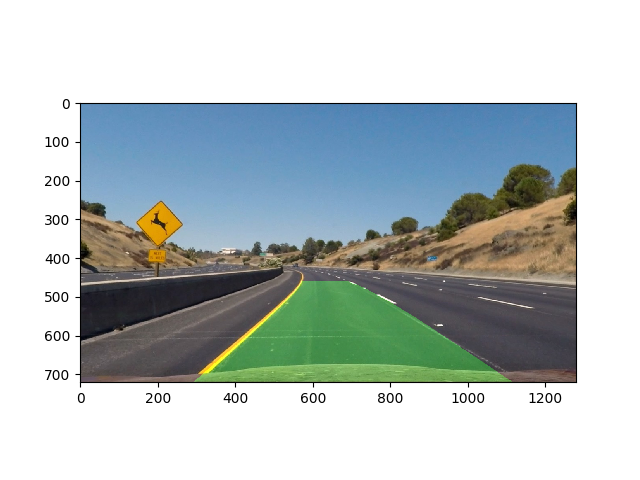
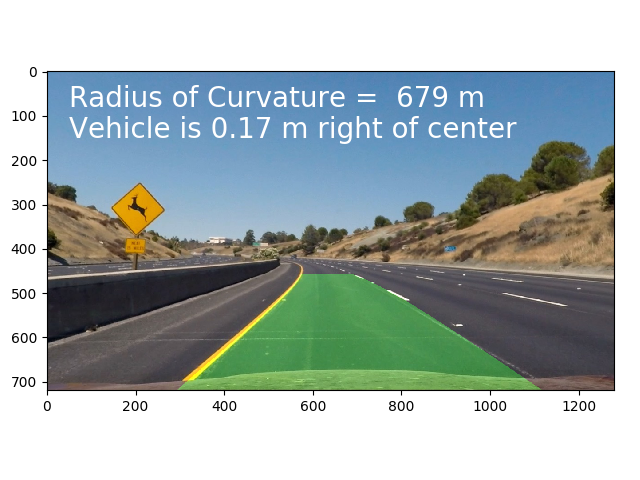
add text in image

Changed region(s): [[0.0, 0.125, 0.9688, 0.875]]

diff --git a/lane_fit.py b/lane_fit.py
@@ -286,6 +286,12 @@ if __name__ == '__main__':
     left_fit, right_fit, leftx, lefty, rightx, righty = poly_track(binary_warped,left_fit,right_fit)
     left_curverad, right_curverad, offset_dist = curvature(left_fit, right_fit, leftx, lefty, rightx, righty)
     result = lane_plot(undist, binary_warped,left_fit,right_fit)
-    plt.imshow(result)
+
+    f, ax = plt.subplots()
+    f.tight_layout()
+    ax.imshow(result)
+    ax.text(50,30,"Radius of Curvature = {:4.0f} m".format(left_curverad),ha='left',va='top',color='white',fontsize=20)
+    ax.text(50,100, "Vehicle is {:.02f} m right of center".format(offset_dist), ha='left', va='top', color='white',
+            fontsize=20)
     plt.savefig('output_images/lane_final.png')
     plt.show()
